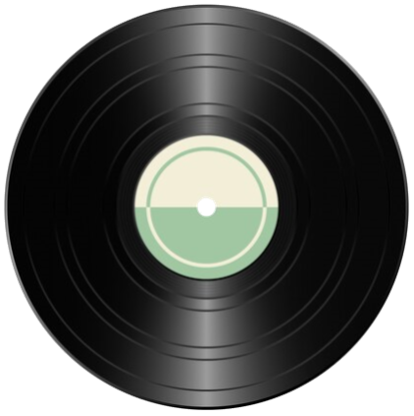
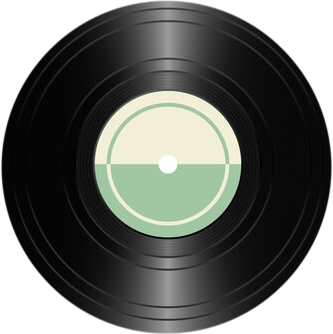
commit para vercel

diff --git a/src/index.css b/src/index.css
@@ -37,7 +37,7 @@ body {
 
 .rotarimage {
   
-  
+  border-radius: 50%;
   width: 120px;
   height: 120px;
   -webkit-animation:spin 4s linear infinite;
@@ -47,6 +47,10 @@ body {
 @-moz-keyframes spin { 100% { -moz-transform: rotate(360deg); } }
 @-webkit-keyframes spin { 100% { -webkit-transform: rotate(360deg); } }
 @keyframes spin { 100% { -webkit-transform: rotate(360deg); transform:rotate(360deg); } }
+
+table tr {
+  vertical-align: middle;
+}
 
 
 

diff --git a/src/components/user_privado/Carro.jsx b/src/components/user_privado/Carro.jsx
@@ -63,7 +63,7 @@ const Carro = () => {
           </tbody>
         </table>
       )}
-      <div className="d-flex flex-row justify-content-evenly">
+      <div className="d-flex flex-row justify-content-evenly" >
       <p>Total: ${calcularTotal().toLocaleString("es-CL")}</p>
       <p>Número de álbumes: {carrito.length}</p>
 

diff --git a/src/components/Galeria.jsx b/src/components/Galeria.jsx
@@ -72,7 +72,7 @@ function Galeria() {
     setAgregado(true);
     setTimeout(() => {
       setAgregado(false);
-    }, 2000);
+    }, 3000);
   };
 
   return (
